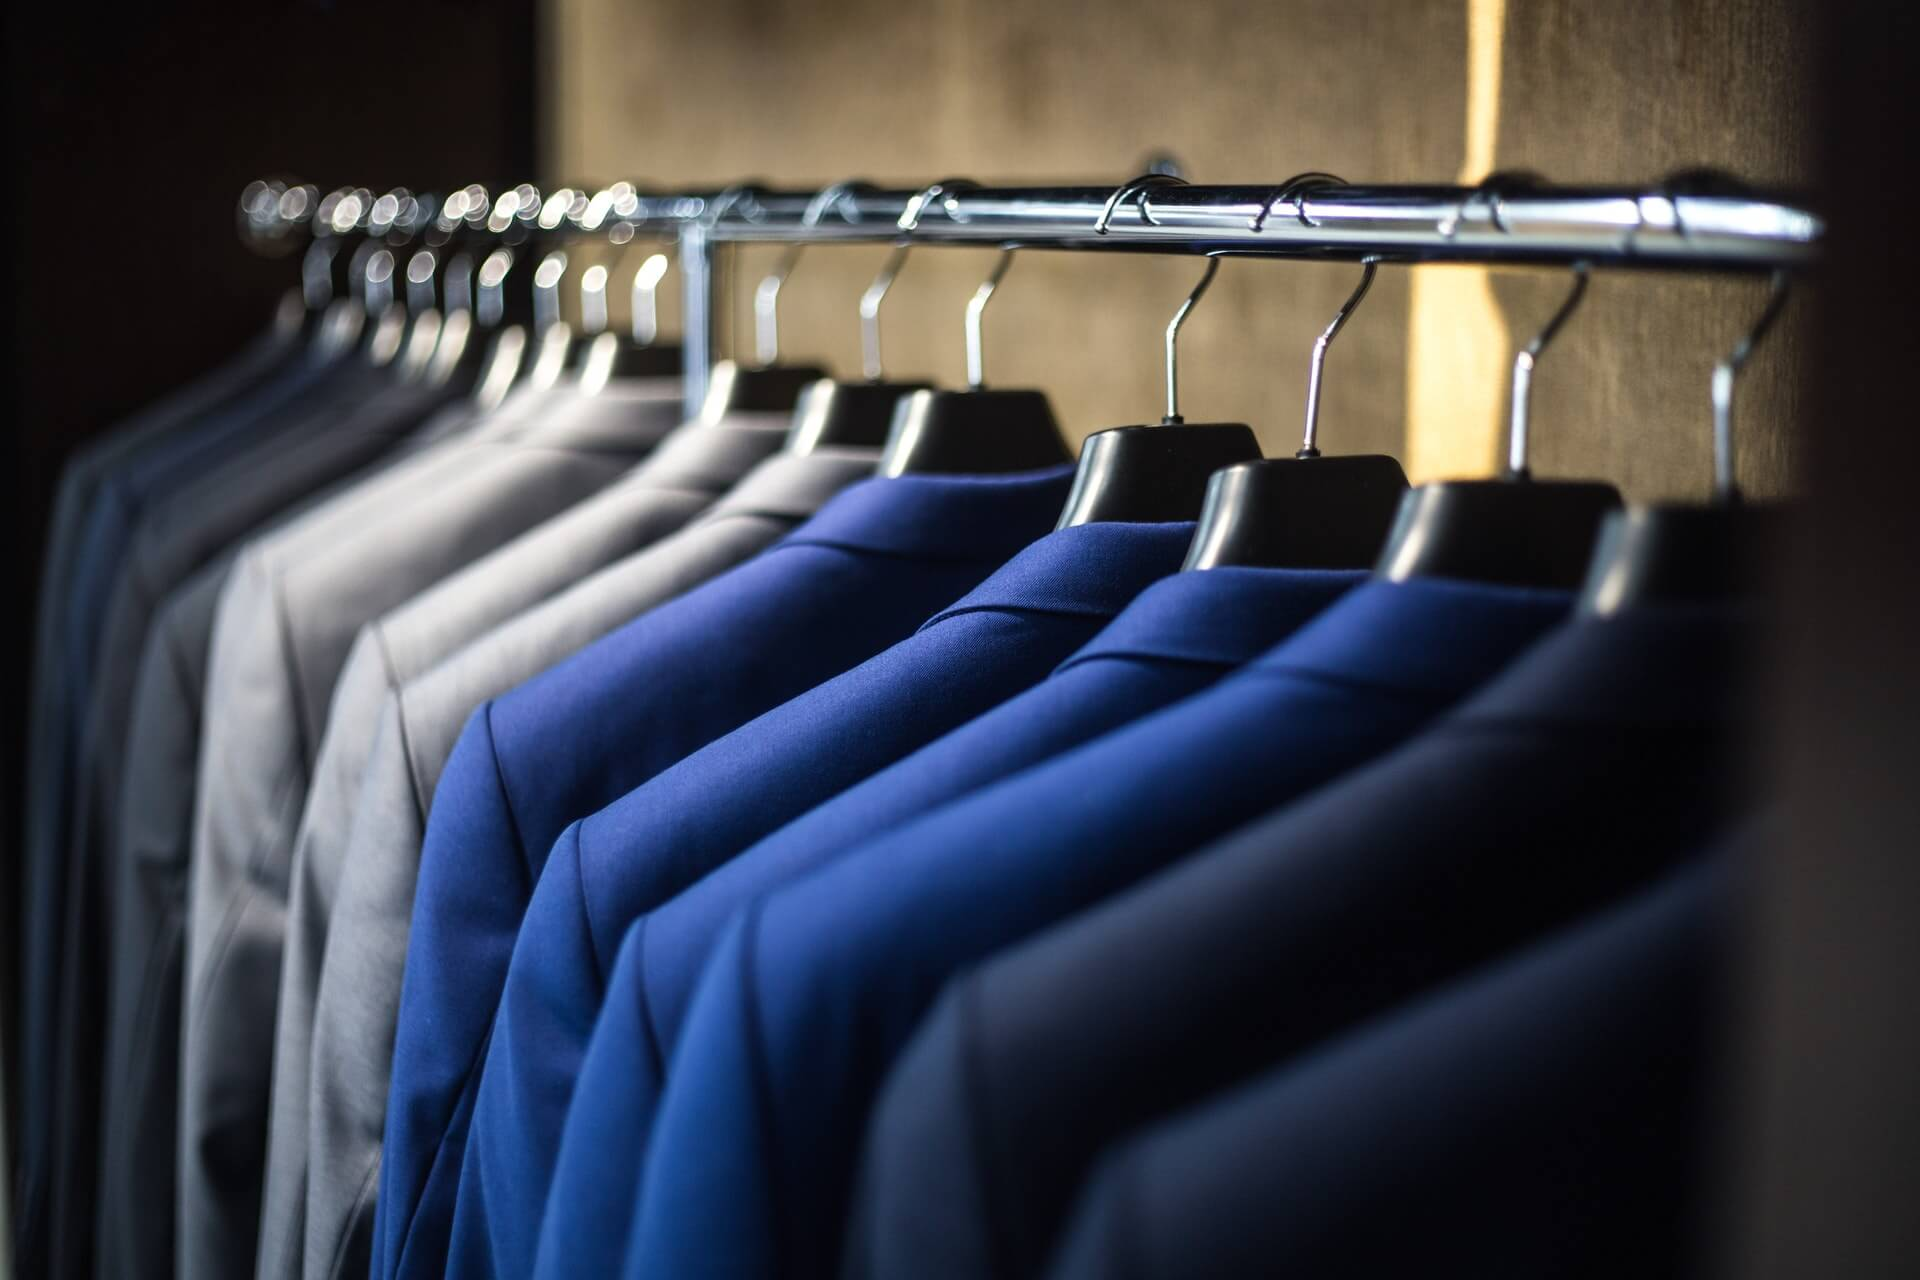
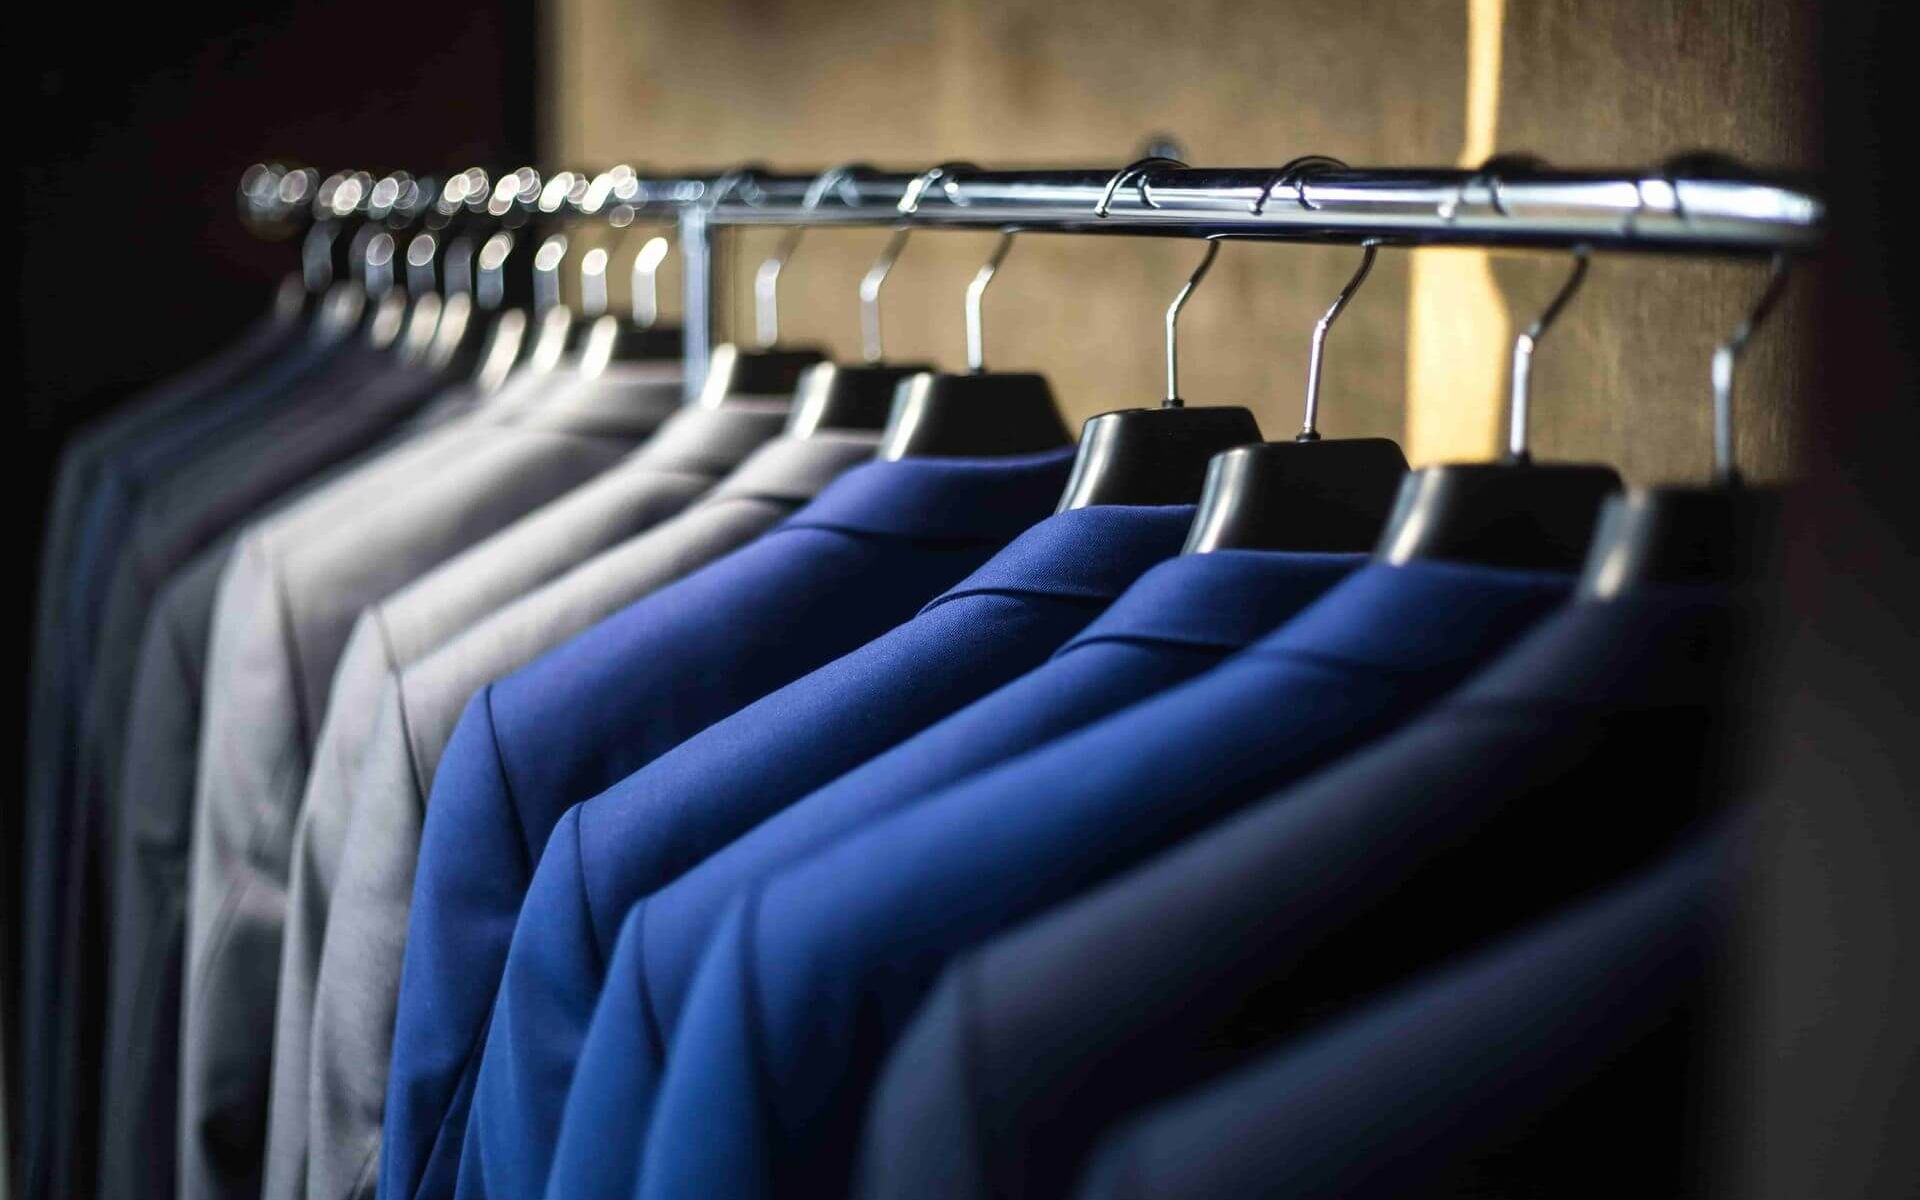
no more flashing background image

diff --git a/src/pages/Landing/Hero.js b/src/pages/Landing/Hero.js
@@ -1,19 +1,32 @@
 import { darken } from 'polished';
 import React from 'react';
-import { animated, useSpring } from 'react-spring';
+import { animated, useSpring, config } from 'react-spring';
 import styled from 'styled-components/macro';
 import fullSize from '../../assets/img/suitsfullsize.jpeg';
 import phoneSize from '../../assets/img/suitsphonesize.jpeg';
+import tabletSize from '../../assets/img/suitstabletsize.jpeg';
+
 import { fadeToLeft, fadeToRight } from '../../styles/transitions';
 
 function Hero({ history }) {
+  const [imageLoaded, setImageLoaded] = React.useState(false);
+
   const handleClick = () => history.push('/order/schedule');
+
+  const handleImageLoaded = () => {
+    console.log('ImageLoaded!');
+    setImageLoaded(true);
+  };
 
   const fadeLeft = useSpring(fadeToLeft);
   const fadeRight = useSpring(fadeToRight);
+  const fadeIn = useSpring({
+    opacity: imageLoaded ? 1 : 0,
+    config: config.molasses,
+  });
 
   return (
-    <Section id="hero" phoneSize={phoneSize} fullSize={fullSize}>
+    <Section id="hero">
       <Wrapper>
         <H1 style={fadeLeft}>
           Professionally pressed clothing to look your best.
@@ -22,6 +35,18 @@ function Hero({ history }) {
           Let's Get Started
         </Button>
       </Wrapper>
+      <Image
+        style={fadeIn}
+        phoneSize={phoneSize}
+        fullSize={fullSize}
+        tabletSize={tabletSize}
+      />
+      <DummyPicture onLoad={handleImageLoaded}>
+        <source media="(min-width: 1025px)" srcSet={fullSize} />
+        <source media="(min-width: 500px)" srcSet={tabletSize} />
+        <source media="(min-width: 1px)" srcSet={phoneSize} />
+        <img src={fullSize} alt="Nicely dry cleaned suits." />
+      </DummyPicture>
     </Section>
   );
 }
@@ -29,7 +54,7 @@ function Hero({ history }) {
 export default Hero;
 
 const Section = styled.section`
-  background-color: ${props => props.theme.primaryColor};
+  background-color: #0e5361e8;
   display: flex;
   flex-direction: column;
   align-items: center;
@@ -39,16 +64,12 @@ const Section = styled.section`
   justify-content: center;
   position: relative;
   overflow: hidden;
-  background-image: linear-gradient(#165f6dd9, #165f6dd9),
-    url(${props => props.phoneSize});
 
   @media (min-width: 450px) {
     height: 90vh;
-    background-image: linear-gradient(#165f6dd9, #165f6dd9),
-      url(${props => props.fullSize});
   }
 
-  @media (min-width: 1000px) {
+  @media (min-width: 1025px) {
     padding-top: 8rem;
   }
 `;
@@ -63,7 +84,7 @@ const H1 = styled(animated.h1)`
     font-size: 2rem;
   }
 
-  @media (min-width: 1000px) {
+  @media (min-width: 1025px) {
     font-size: 3rem;
   }
 `;
@@ -79,7 +100,7 @@ const Button = styled(animated.button)`
   font-size: 1.2rem;
   cursor: pointer;
 
-  @media (min-width: 1000px) {
+  @media (min-width: 1025px) {
     /* padding: 1.5rem 3rem; */
     font-size: 1.3rem;
   }
@@ -96,7 +117,32 @@ const Wrapper = styled.div`
   transform: translateY(-30%);
   max-width: 600px;
 
-  @media (min-width: 1000px) {
+  @media (min-width: 1025px) {
     transform: translateY(-15%);
   }
+`;
+
+const Image = styled(animated.div)`
+  position: absolute;
+  top: 0;
+  left: 0;
+  bottom: 0;
+  right: 0;
+  z-index: -1;
+  background-size: cover;
+
+  background-image: url(${props => props.phoneSize});
+
+  @media (min-width: 500px) {
+    background-image: url(${props => props.tabletSize});
+  }
+
+  @media (min-width: 1025px) {
+    background-image: url(${props => props.fullSize});
+  }
+`;
+
+const DummyPicture = styled.picture`
+  visibility: hidden;
+  position: absolute;
 `;

diff --git a/src/pages/Landing/Navbar.js b/src/pages/Landing/Navbar.js
@@ -75,7 +75,7 @@ const Div = styled(animated.div)`
   background-color: white;
   z-index: 5;
 
-  @media screen and (min-width: 1000px) {
+  @media screen and (min-width: 1025px) {
     height: 6rem;
     padding: 0 5%;
     justify-content: flex-end;
@@ -92,7 +92,7 @@ const MenuButton = styled(animated.button)`
     outline: none;
   }
 
-  @media (min-width: 1000px) {
+  @media (min-width: 1025px) {
     display: none;
   }
 
@@ -105,7 +105,7 @@ const Nav = styled(animated.nav)`
   display: none;
   align-items: center;
 
-  @media (min-width: 1000px) {
+  @media (min-width: 1025px) {
     display: flex;
   }
 `;
@@ -125,7 +125,7 @@ const LogoContainer = styled(animated.div)`
   transform: translate(-50%, -45%);
   cursor: pointer;
 
-  @media (min-width: 1000px) {
+  @media (min-width: 1025px) {
     width: 200px;
     left: 5%;
     top: 3rem;
@@ -150,7 +150,7 @@ const StyledLink = styled(Link)`
     font-size: 0.8rem;
   }
 
-  @media (min-width: 1000px) {
+  @media (min-width: 1025px) {
     line-height: inherit;
     background-color: ${props => props.theme.buttonColor};
     color: white;

diff --git a/src/pages/Landing/Contact.js b/src/pages/Landing/Contact.js
@@ -76,10 +76,10 @@ const Section = styled.section`
   display: flex;
   flex-direction: column;
   align-items: center;
-  background-color: #1d7a8c;
-  color: #ffffff6e;
+  background-color: #222;
+  color: #67727e;
 
-  @media (min-width: 1000px) {
+  @media (min-width: 1025px) {
     padding: 2.5rem 10%;
   }
 `;
@@ -92,7 +92,7 @@ const Container = styled.div`
   width: 100%;
   max-width: 700px;
 
-  @media (min-width: 1000px) {
+  @media (min-width: 1025px) {
     flex-direction: row;
     justify-content: space-evenly;
     align-items: flex-start;

diff --git a/src/pages/Final/FinalBottombar.js b/src/pages/Final/FinalBottombar.js
@@ -62,7 +62,7 @@ const Bar = styled.div`
   border-top: 1px solid rgb(236, 239, 245);
   z-index: 10;
 
-  @media (min-width: 1000px) {
+  @media (min-width: 1025px) {
     height: 6rem;
   }
 `;
@@ -70,7 +70,7 @@ const Bar = styled.div`
 const Spacer = styled.div`
   height: 5rem;
   width: 100%;
-  @media (min-width: 1000px) {
+  @media (min-width: 1025px) {
     height: 6rem;
   }
 `;
@@ -84,7 +84,7 @@ const Container = styled.div`
     width: 40%;
   }
 
-  @media (min-width: 1000px) {
+  @media (min-width: 1025px) {
     width: 25%;
   }
 `;

diff --git a/src/pages/Landing/HowItWorks.js b/src/pages/Landing/HowItWorks.js
@@ -41,7 +41,7 @@ const Section = styled.section`
   flex-direction: column;
   align-items: center;
 
-  @media (min-width: 1000px) {
+  @media (min-width: 1025px) {
     padding: 2.5rem 10%;
   }
 `;
@@ -54,7 +54,7 @@ const Container = styled.div`
   width: 100%;
   max-width: 1100px;
 
-  @media (min-width: 1000px) {
+  @media (min-width: 1025px) {
     flex-direction: row;
     justify-content: space-between;
     align-items: flex-start;

diff --git a/src/pages/Landing/OurServices.js b/src/pages/Landing/OurServices.js
@@ -65,7 +65,7 @@ const Section = styled.section`
   align-items: center;
   background-color: #efefef;
 
-  @media (min-width: 1000px) {
+  @media (min-width: 1025px) {
     padding: 2.5rem 10%;
   }
 `;
@@ -78,7 +78,7 @@ const Container = styled.div`
   width: 100%;
   max-width: 1100px;
 
-  @media (min-width: 1000px) {
+  @media (min-width: 1025px) {
     flex-direction: row;
     justify-content: space-between;
     align-items: center;

diff --git a/src/pages/Landing/AboutUs.js b/src/pages/Landing/AboutUs.js
@@ -59,7 +59,7 @@ const Section = styled.section`
   align-items: center;
   background-color: white;
 
-  @media (min-width: 1000px) {
+  @media (min-width: 1025px) {
     padding: 2.5rem 10%;
   }
 `;
@@ -72,7 +72,7 @@ const Container = styled.div`
   width: 100%;
   max-width: 1100px;
 
-  @media (min-width: 1000px) {
+  @media (min-width: 1025px) {
     flex-direction: row;
     justify-content: space-between;
     align-items: center;

diff --git a/src/components/StepItem.js b/src/components/StepItem.js
@@ -41,7 +41,7 @@ const Div = animated(styled.div`
 const Icon = animated(styled.span`
   font-size: 1rem;
 
-  @media (min-width: 1000px) {
+  @media (min-width: 1025px) {
     margin-right: 0.8rem;
     font-size: 1.2rem;
   }
@@ -62,7 +62,7 @@ const Text = animated(styled.span`
   font-weight: 400;
   font-size: 0.9rem;
 
-  @media (min-width: 1000px) {
+  @media (min-width: 1025px) {
     display: block;
   }
 `);

diff --git a/src/components/UI/index.js b/src/components/UI/index.js
@@ -19,7 +19,7 @@ export const Card = styled.div`
   max-width: 100%;
   overflow-x: auto;
 
-  @media (min-width: 1000px) {
+  @media (min-width: 1025px) {
     padding: 1.8rem;
     margin-bottom: 1.8rem;
   }
@@ -59,7 +59,7 @@ export const CardRow = styled.div`
   display: flex;
   flex-direction: column;
 
-  @media (min-width: 1000px) {
+  @media (min-width: 1025px) {
     flex-direction: row;
   }
 `;

diff --git a/src/pages/Garments/Garments.js b/src/pages/Garments/Garments.js
@@ -47,7 +47,7 @@ const Row = styled.div`
   display: flex;
   flex-direction: column;
 
-  @media (min-width: 1000px) {
+  @media (min-width: 1025px) {
     flex-direction: row;
     align-items: flex-start;
   }
@@ -56,7 +56,7 @@ const Row = styled.div`
 const Spacer = styled.div`
   height: 5rem;
   width: 100%;
-  @media (min-width: 1000px) {
+  @media (min-width: 1025px) {
     height: 6rem;
   }
 `;

diff --git a/src/pages/Landing/HowItWorksItem.js b/src/pages/Landing/HowItWorksItem.js
@@ -31,7 +31,7 @@ const Div = styled(animated.div)`
   max-width: 500px;
   margin-bottom: 4rem;
 
-  @media (min-width: 1000px) {
+  @media (min-width: 1025px) {
     max-width: 300px;
   }
 `;
@@ -52,7 +52,7 @@ const Description = styled.p`
   font-size: 1rem;
   margin: 0;
 
-  @media (min-width: 1000px) {
+  @media (min-width: 1025px) {
     font-size: 1.1rem;
   }
 `;

diff --git a/src/pages/Order/Topbar.js b/src/pages/Order/Topbar.js
@@ -81,7 +81,7 @@ const Div = styled.div`
   align-items: center;
   z-index: 10;
 
-  @media (min-width: 1000px) {
+  @media (min-width: 1025px) {
     height: 5rem;
   }
 `;
@@ -110,7 +110,7 @@ const Spacer = styled.div`
   height: 4rem;
   background-color: white;
 
-  @media (min-width: 1000px) {
+  @media (min-width: 1025px) {
     height: 5rem;
   }
 `;
